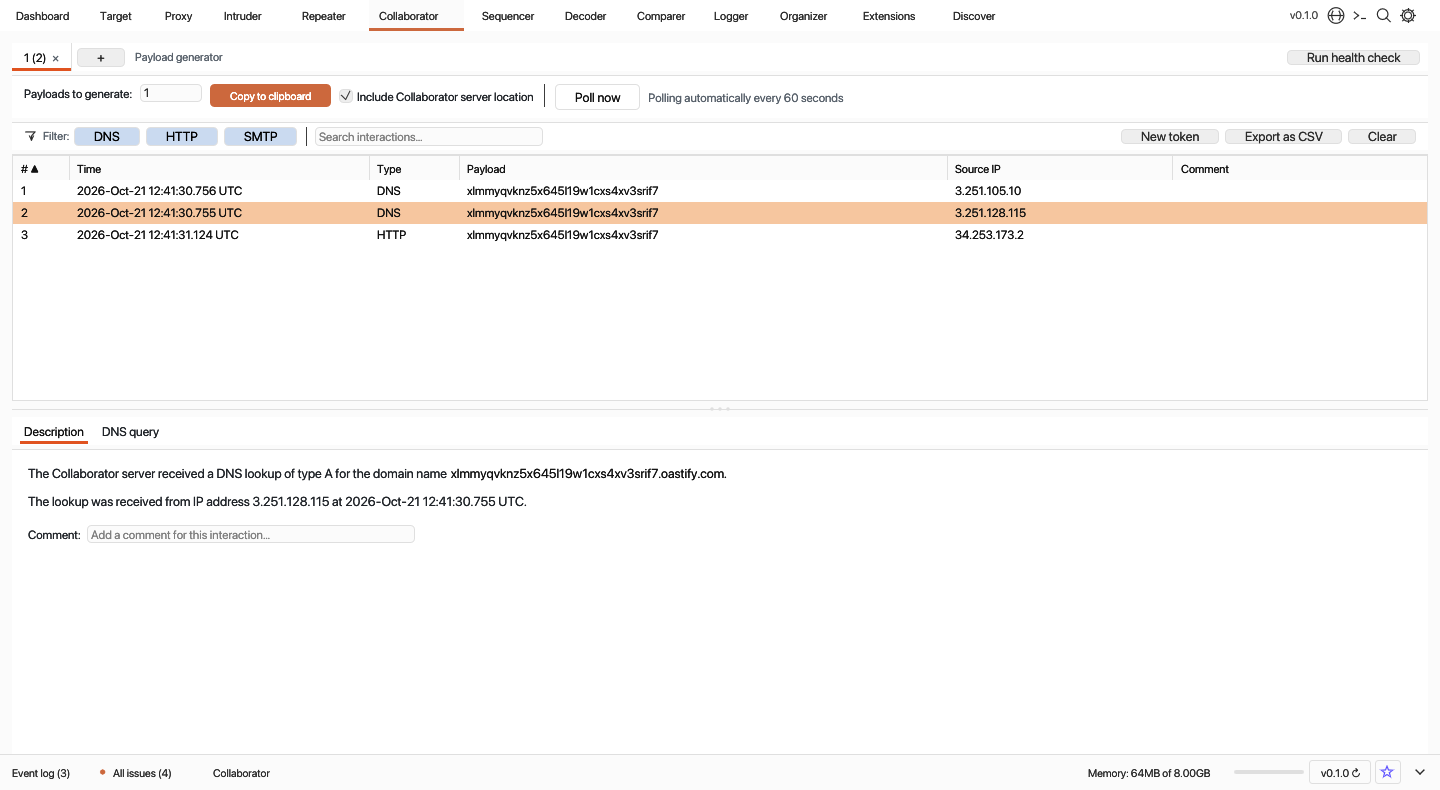
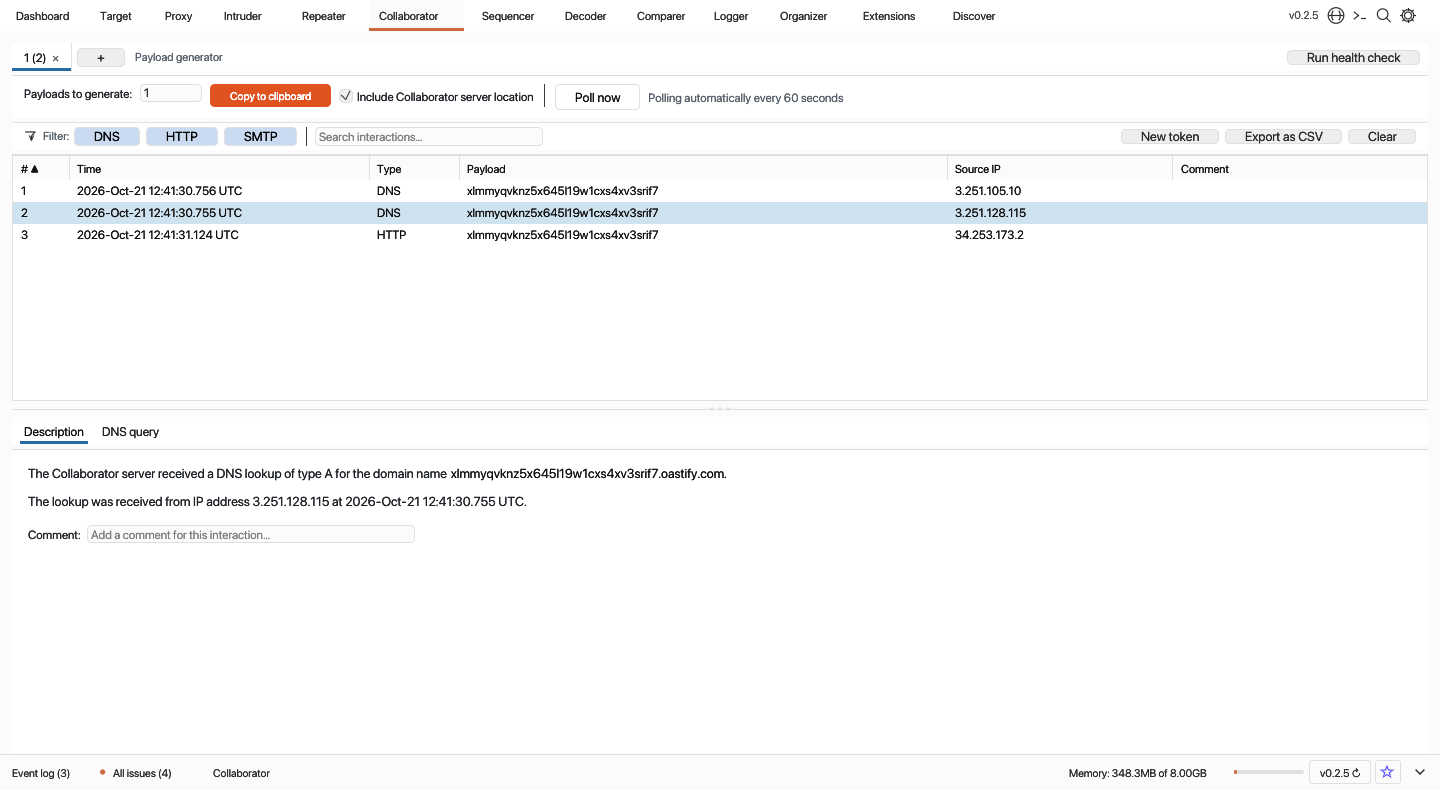
release: Gulpsuite v0.2.5 UI refinements

diff --git a/README.md b/README.md
@@ -2,7 +2,7 @@
 
 <img src="assets/logo.png" alt="Gulpsuite Logo" width="120" height="120" />
 
-# Gulpsuite (`v0.2.4`)
+# Gulpsuite (`v0.2.5`)
 
 > ***"Gulp it before burp"***
 
@@ -19,7 +19,7 @@
 [![PRs Welcome](https://img.shields.io/badge/PRs-welcome-brightgreen.svg?style=flat-square)](CONTRIBUTING.md)
 [![Code of Conduct](https://img.shields.io/badge/Contributor%20Covenant-2.1-4baaaa.svg?style=flat-square)](CODE_OF_CONDUCT.md)
 
-[**Download v0.2.4 Installers**](https://github.com/Aryma-f4/gulpsuite/releases/tag/v0.2.4) · [**What's New in v0.2.4**](#-whats-new-in-v024) · [**Screenshots**](#-visual-tour--screenshots) · [**Performance Benchmarks**](#why-gulpsuite-performance--memory-benchmarks) · [**Contributing**](CONTRIBUTING.md) · [**Security Policy**](SECURITY.md)
+[**Download v0.2.5 Installers**](https://github.com/Aryma-f4/gulpsuite/releases/tag/v0.2.5) · [**What's New in v0.2.5**](#-whats-new-in-v025) · [**Screenshots**](#-visual-tour--screenshots) · [**Performance Benchmarks**](#why-gulpsuite-performance--memory-benchmarks) · [**Contributing**](CONTRIBUTING.md) · [**Security Policy**](SECURITY.md)
 
 </div>
 
@@ -35,7 +35,15 @@ Designed for bug bounty hunters, penetration testers, red teams, and AppSec engi
 
 ---
 
-## ✨ What's New in `v0.2.4`
+## ✨ What's New in `v0.2.5`
+
+- Redesigned Proxy empty-state illustrations for Intercept, HTTP history, and WebSockets history.
+- Refined the Collaborator radar and the Target site map's topology and tree icons for light and dark themes.
+- Standardized primary action buttons on the reference orange in both themes.
+
+See the [v0.2.5 changelog](CHANGELOG.md#025).
+
+### Previous release — `v0.2.4`
 
 - The updater verifies downloads before launching the platform installer and stages AppImage updates before replacing the installed file.
 
@@ -122,29 +130,29 @@ See the [v0.1.1 release notes](https://github.com/Aryma-f4/gulpsuite/releases/ta
 
 ---
 
-## Cross-Platform Installers (`v0.2.4`)
+## Cross-Platform Installers (`v0.2.5`)
 
-Check available native installers at [**GitHub Releases (`v0.2.4`)**](https://github.com/Aryma-f4/gulpsuite/releases/tag/v0.2.4):
+Check available native installers at [**GitHub Releases (`v0.2.5`)**](https://github.com/Aryma-f4/gulpsuite/releases/tag/v0.2.5):
 
 | Platform | Architecture | Installer Packages | Format |
 |---|---|---|---|
-| **macOS (Apple Silicon)** | `arm64` | `Gulpsuite-0.2.4-macos-arm64.dmg` / `Gulpsuite-0.2.4-macos-arm64-setup.pkg` | macOS Disk Image (`.dmg`) & Native GUI Setup Package (`.pkg`) |
-| **macOS (Intel)** | `x86_64` | `Gulpsuite-0.2.4-macos-x64.dmg` / `Gulpsuite-0.2.4-macos-x64-setup.pkg` | macOS Disk Image (`.dmg`) & Native GUI Setup Package (`.pkg`) |
-| **Windows** | `x86_64` | `Gulpsuite-0.2.4-windows-x64-setup.exe` | Self-Contained Windows Graphical Setup Wizard + Bundled Chromium (`.exe`) |
-| **Linux (CachyOS / Arch / Universal)** | `x86_64` | `Gulpsuite-0.2.4-x86_64.AppImage` / `gulpsuite-0.2.4-1-x86_64.pkg.tar.gz` | FUSE-free Portable AppImage (`.AppImage`) & Native CachyOS/Arch Package (`.pkg.tar.gz`) |
-| **Linux (Debian / Ubuntu / Setup)** | `x86_64` | `Gulpsuite-0.2.4-linux-x64-setup.run` / `gulpsuite_0.2.4_amd64.deb` | Self-Extracting Setup Installer (`.run`) & Debian/Ubuntu Package (`.deb`) |
+| **macOS (Apple Silicon)** | `arm64` | `Gulpsuite-0.2.5-macos-arm64.dmg` / `Gulpsuite-0.2.5-macos-arm64-setup.pkg` | macOS Disk Image (`.dmg`) & Native GUI Setup Package (`.pkg`) |
+| **macOS (Intel)** | `x86_64` | `Gulpsuite-0.2.5-macos-x64.dmg` / `Gulpsuite-0.2.5-macos-x64-setup.pkg` | macOS Disk Image (`.dmg`) & Native GUI Setup Package (`.pkg`) |
+| **Windows** | `x86_64` | `Gulpsuite-0.2.5-windows-x64-setup.exe` | Self-Contained Windows Graphical Setup Wizard + Bundled Chromium (`.exe`) |
+| **Linux (CachyOS / Arch / Universal)** | `x86_64` | `Gulpsuite-0.2.5-x86_64.AppImage` / `gulpsuite-0.2.5-1-x86_64.pkg.tar.gz` | FUSE-free Portable AppImage (`.AppImage`) & Native CachyOS/Arch Package (`.pkg.tar.gz`) |
+| **Linux (Debian / Ubuntu / Setup)** | `x86_64` | `Gulpsuite-0.2.5-linux-x64-setup.run` / `gulpsuite_0.2.5_amd64.deb` | Self-Extracting Setup Installer (`.run`) & Debian/Ubuntu Package (`.deb`) |
 
 ### Quick Start on CachyOS / Arch Linux (`AppImage` or `pacman`)
 ```bash
 # Option 1: Run Portable AppImage directly (FUSE-free — works out of the box on CachyOS)
-chmod +x Gulpsuite-0.2.4-x86_64.AppImage
-./Gulpsuite-0.2.4-x86_64.AppImage
+chmod +x Gulpsuite-0.2.5-x86_64.AppImage
+./Gulpsuite-0.2.5-x86_64.AppImage
 
 # Optional: Integrate AppImage into CachyOS desktop launcher & ~/.local/bin/gulpsuite
-./Gulpsuite-0.2.4-x86_64.AppImage --install
+./Gulpsuite-0.2.5-x86_64.AppImage --install
 
 # Option 2: Install native CachyOS / Arch Linux pacman package
-sudo pacman -U gulpsuite-0.2.4-1-x86_64.pkg.tar.gz
+sudo pacman -U gulpsuite-0.2.5-1-x86_64.pkg.tar.gz
 ```
 
 ---

diff --git a/CHANGELOG.md b/CHANGELOG.md
@@ -1,5 +1,12 @@
 # Changelog
 
+## 0.2.5
+
+### UI refinements
+- Redesigned Proxy empty-state illustrations for Intercept, HTTP history, and WebSockets history.
+- Refined the Collaborator radar and the Target site map's topology and tree icons for light and dark themes.
+- Standardized primary action buttons on the reference orange in both themes.
+
 ## 0.2.4
 
 ### Updater stability
